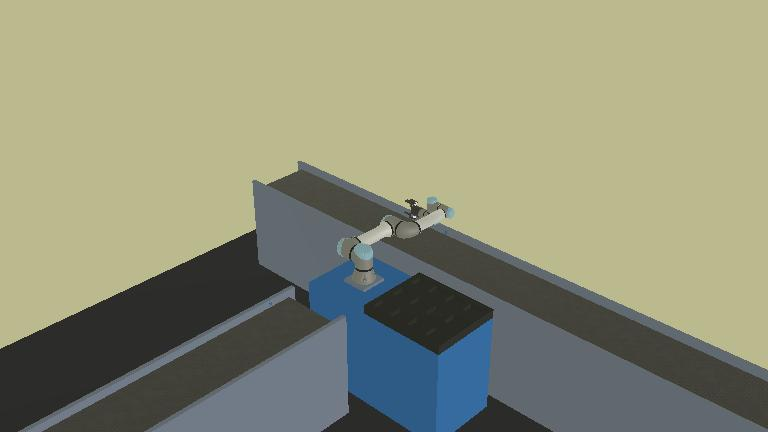
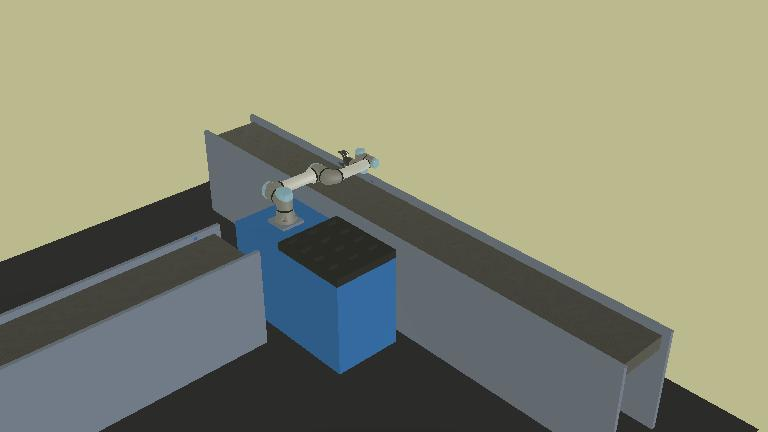
update simulator simplified box dequeu the buffer

diff --git a/webots/controllers/pickAndPlace/pickAndPlace.py b/webots/controllers/pickAndPlace/pickAndPlace.py
@@ -228,8 +228,15 @@ def setup_rtde_connection():
         sys.exit()
 
 
-# simulator.setLabel(0, "pickAndPlace.wbt", 0.0,
-#                    0.95, 0.10, 0xffffff, 0, 'Arial')
+def get_last_received_state():
+    """Helper function to retrieve the most recent state received from the controller."""
+    last_state = None
+    state = con.receive_buffered()
+    while state is not None:
+        last_state = state
+        state = con.receive_buffered()  # Keep reading until no more states are available
+    return last_state
+
 
 while simulator.step(TIME_STEP) != -1:
 
@@ -255,7 +262,8 @@ while simulator.step(TIME_STEP) != -1:
             inputs.input_bit_register_65 = int(laser_outfeed_value < 100.0)
             con.send(inputs)
 
-            state = con.receive_buffered()
+            state = get_last_received_state()
+
             if state is not None:
                 set_conveyors_speed(state)
                 pass

diff --git a/webots/controllers/pickAndPlace-UR5e/pickAndPlace-UR5e.py b/webots/controllers/pickAndPlace-UR5e/pickAndPlace-UR5e.py
@@ -102,6 +102,16 @@ def setup_rtde_connection():
         sys.exit()
 
 
+def get_last_received_state():
+    """Helper function to retrieve the most recent state received from the controller."""
+    last_state = None
+    state = con.receive_buffered()
+    while state is not None:
+        last_state = state
+        state = con.receive_buffered()  # Keep reading until no more states are available
+    return last_state
+
+
 # Main loop:
 # - perform simulation steps until Webots is stopping the controller
 set_joint_positions([0, -pi/2, -pi/2, -pi/2, 0, 0])
@@ -114,7 +124,7 @@ while robot.step(TIME_STEP) != -1:
             setup_rtde_connection()
     else:
         try:
-            state = con.receive_buffered()
+            state = get_last_received_state()
             if state is not None:
                 set_joint_positions(state.target_q)
                 set_gripper_position(state)
